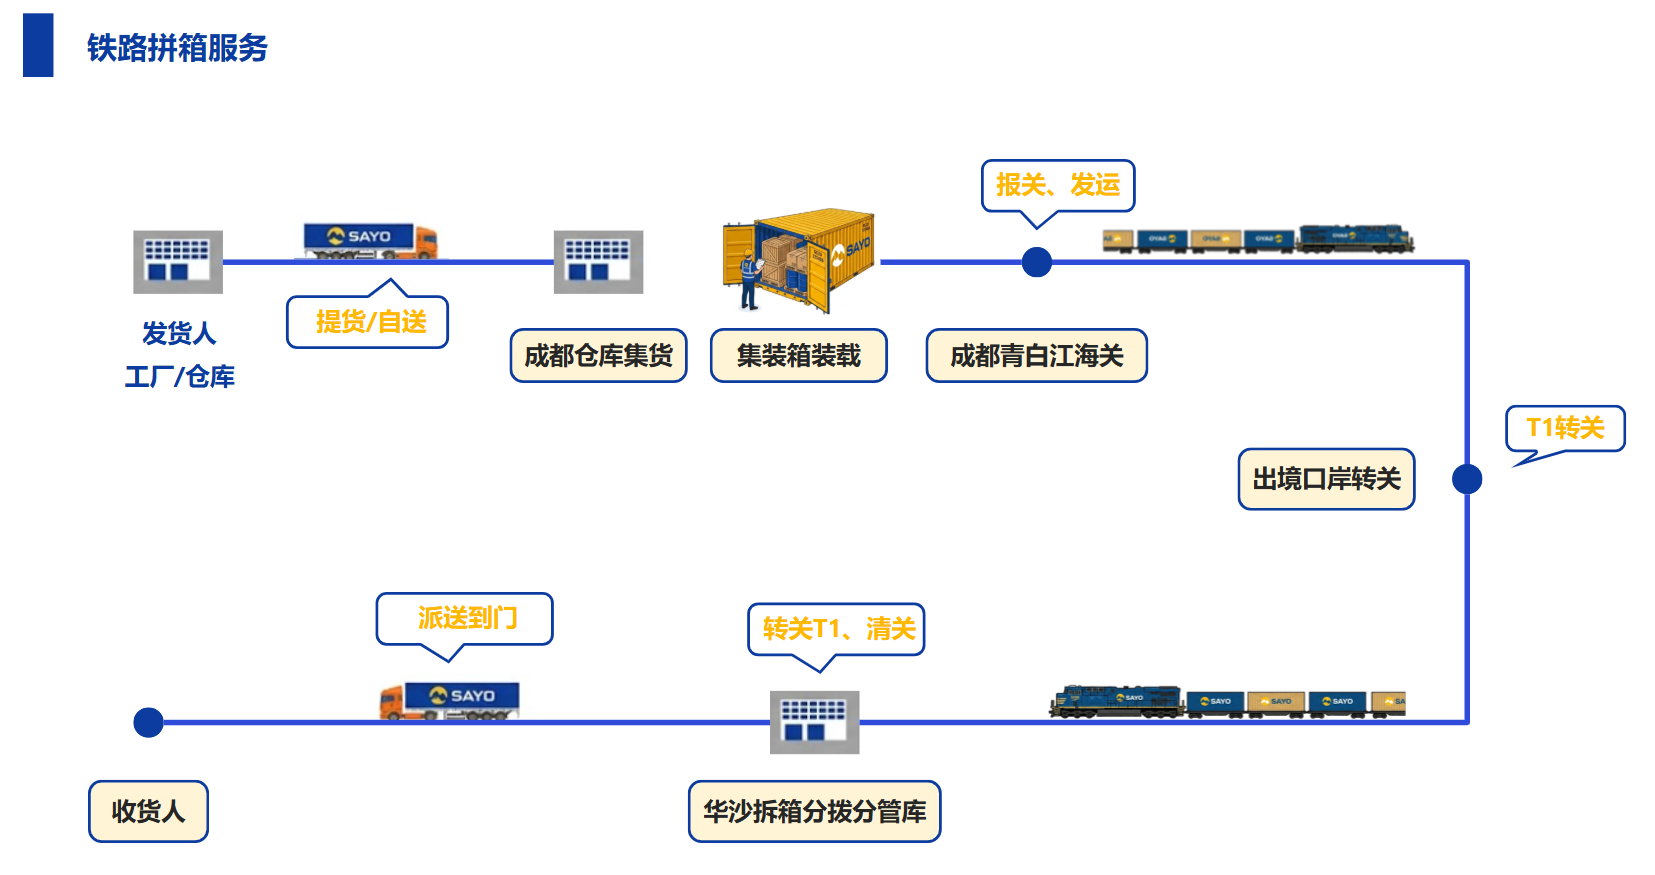
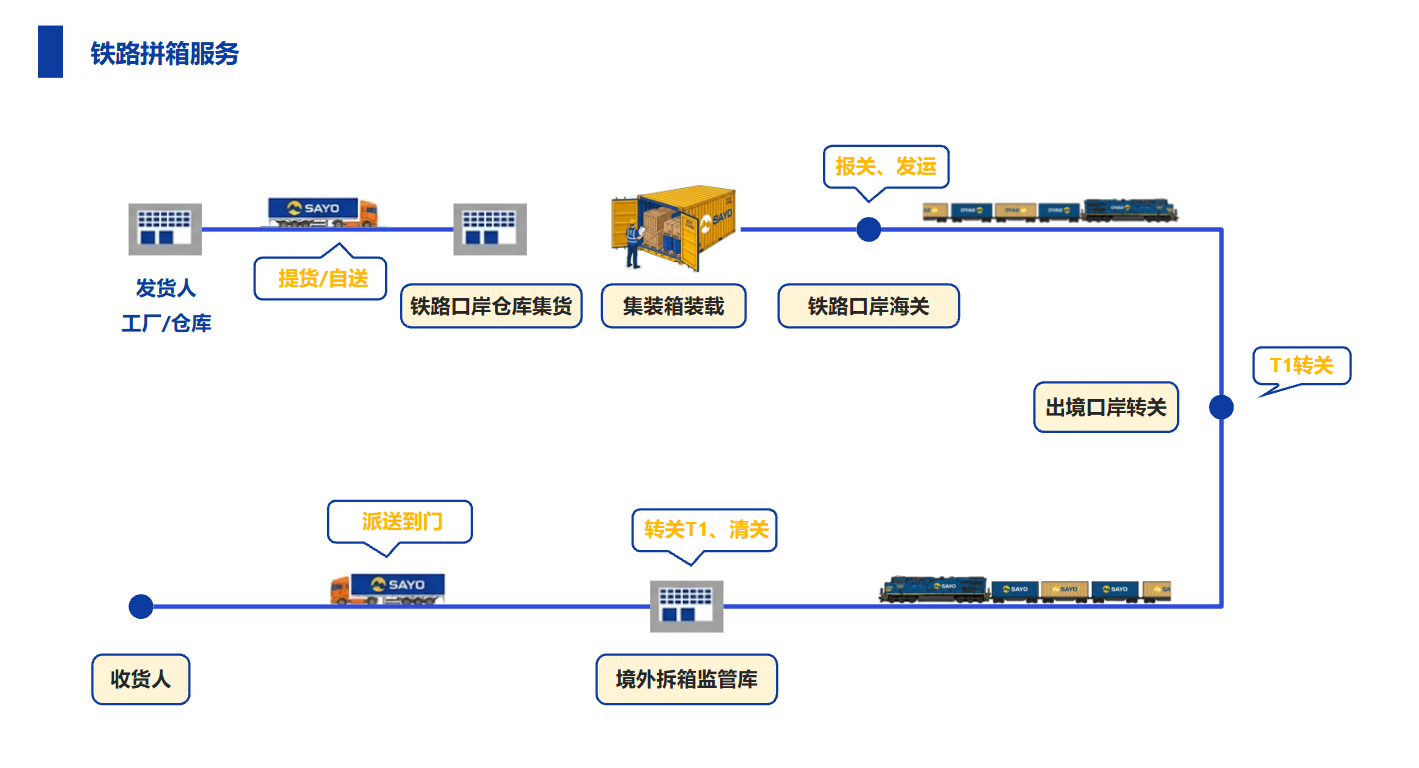
update

Changed region(s): [[0.031, 0.1562, 0.9922, 0.9688], [0.0, 0.0, 0.186, 0.125]]

diff --git a/index.html b/index.html
@@ -3,6 +3,9 @@
   <head>
     <meta charset="UTF-8" />
     <meta name="viewport" content="width=device-width, initial-scale=1.0" />
+    <meta name="description" content="山岳供应链 | Sayo Supply Chain">
+    <link rel="icon" type="image/png" href="/image.png" />
+    <link rel="apple-touch-icon" href="/image.png" />
     <title>山岳供应链 | Sayo Supply Chain</title>
   </head>
   <body>
